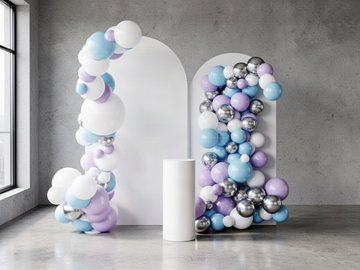
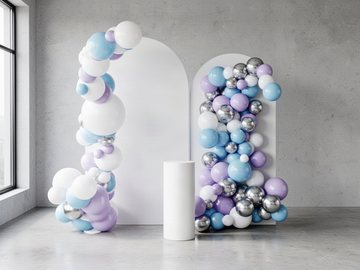
Light, plain room — walls and floor were rendering far too dark
On the non-flash model the room came back as heavily mottled dark concrete with
a dark brown marble floor. The scene wording ("gray textured plaster or concrete
studio wall, polished light concrete or stone floor") sits mid-prompt, where this
pipeline does not listen, so the model dressed the room however it liked.

A front-loaded line now describes the room as light and plain: a pale light-grey
wall, smooth and evenly lit with only faint texture, and a pale light-grey
concrete floor — not dark, not heavily mottled or stained, not marble, not brown,
no strong shadows.

Measured on the same scene and seed, sampling the bare wall and the bare floor:
  wall   L 108.4 -> 183.1
  floor  L 184.1 -> 208.8, and its texture variation halved (sd 24.5 -> 13.1)
Balloon saturation was unaffected by the change.

All nine setup samples and all six option samples regenerated, since the room
look changed for every scene.

RENDER_CACHE_VERSION -> light-plain-room-v88

diff --git a/lib/renderPrompts/buildLayoutRefEditPrompt.ts b/lib/renderPrompts/buildLayoutRefEditPrompt.ts
@@ -819,6 +819,14 @@ export function buildLayoutRefEditPrompt(
       `no deep shadows, not hazy, not washed out. `
     : "";
 
+  // 2026-09-09: the ROOM itself, front-loaded. On the non-flash model the wall
+  // came back as heavily mottled dark concrete and the floor as dark brown
+  // marble — "duvarlar ve yerler cok koyu kontrast olmus". The room is set
+  // dressing; it should be pale and quiet behind the setup.
+  const frontRoomLine = `The room is LIGHT and plain: a pale light-grey wall, smooth and evenly lit with only ` +
+    `faint texture, and a pale light-grey concrete floor. The wall and floor are not dark, not heavily ` +
+    `mottled or stained, not marble, not brown, and carry no strong shadows. `;
+
   // 2026-09-09: the non-flash model composes a three-quarter view of the room
   // by default — the customer wants the setup square to camera — and it drops
   // the plinth on a lone arch that has no standee. Both are stated up front,
@@ -1674,6 +1682,7 @@ const setupTemplateClause = setupTemplate
   return (
     frontShapeLine +
     frontColourLine +
+    frontRoomLine +
     frontCameraLine +
     frontPlinthLine +
     frontBannerAspectLine +

diff --git a/app/api/generate-controlled-render/route.ts b/app/api/generate-controlled-render/route.ts
@@ -159,7 +159,7 @@ function isAuthOrBillingError(message: string | null): boolean {
 // process (sufficient for a single-instance/dev deployment — not a
 // distributed cache). Bump RENDER_CACHE_VERSION whenever a prompt/negative
 // change should invalidate previously cached (now-stale) renders.
-const RENDER_CACHE_VERSION = "front-view-normal-contrast-plinth-v87";
+const RENDER_CACHE_VERSION = "light-plain-room-v88";
 
 interface RenderCacheEntry {
   imageUrl: string;
